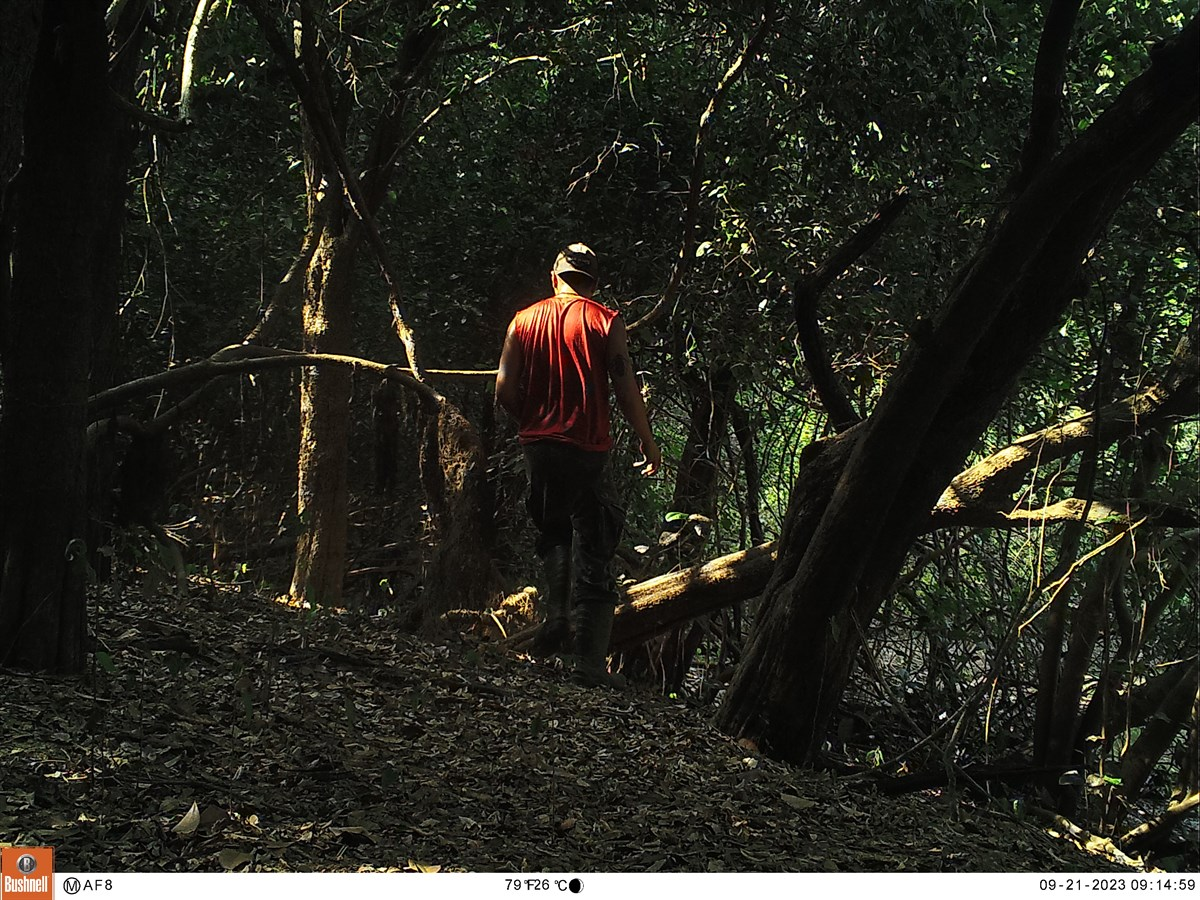
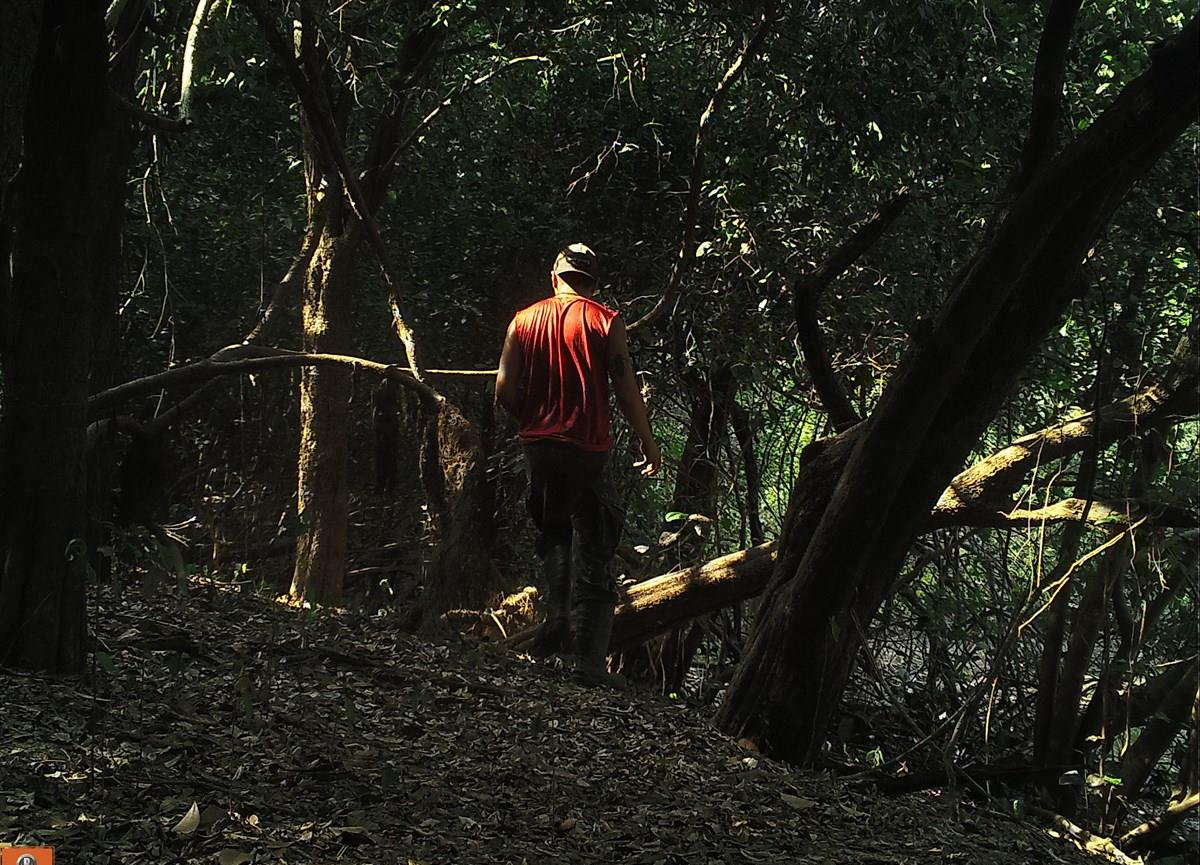
feat(gallery): remove all timestamped photos and camera trap stamp bars, leaving 19 clean field photos (v13.1)

diff --git a/index.html b/index.html
@@ -23,7 +23,7 @@
     <link rel="stylesheet" href="https://cdnjs.cloudflare.com/ajax/libs/font-awesome/6.4.0/css/all.min.css">
         <!-- Leaflet Map CSS -->
     <link rel="stylesheet" href="https://unpkg.com/leaflet@1.9.4/dist/leaflet.css" crossorigin=""/>
-    <link rel="stylesheet" href="style.css?v=13.0">
+    <link rel="stylesheet" href="style.css?v=13.1">
     <noscript>
         <style>
             .fade-in { opacity: 1 !important; transform: none !important; }
@@ -559,7 +559,7 @@
                     <!-- Projeto 6: XPRIZE Rainforest Bioacoustics Deployment -->
                     <div class="project-card" data-category="science">
                         <div class="project-img-wrapper">
-                            <img src="assets/project-xprize.jpg" alt="XPRIZE Bioacoustics Preview">
+                            <img src="assets/project-xprize.jpg?v=13.1" alt="XPRIZE Bioacoustics Preview">
                             <div class="project-overlay">
                                 <span class="btn-badge"><i class="fa-solid fa-award"></i> Brazilian Team XPRIZE</span>
                             </div>
@@ -1148,7 +1148,7 @@
                     <!-- Category Filter Controls -->
                     <div class="field-filter-bar">
                         <button class="field-filter-btn active" data-filter="all">
-                            <i class="fa-solid fa-layer-group"></i> <span data-i18n="fw_filter_all">Todos os Registros</span> <span class="filter-count">(22)</span>
+                            <i class="fa-solid fa-layer-group"></i> <span data-i18n="fw_filter_all">Todos os Registros</span> <span class="filter-count">(19)</span>
                         </button>
                         <button class="field-filter-btn" data-filter="herpeto">
                             <i class="fa-solid fa-staff-snake"></i> <span data-i18n="fw_filter_herpeto">Herpetofauna &amp; Manejo</span> <span class="filter-count">(8)</span>
@@ -1156,11 +1156,8 @@
                         <button class="field-filter-btn" data-filter="ornito-masto">
                             <i class="fa-solid fa-crow"></i> <span data-i18n="fw_filter_ornito">Ornitologia &amp; Masto</span> <span class="filter-count">(6)</span>
                         </button>
-                        <button class="field-filter-btn" data-filter="supervisao">
-                            <i class="fa-solid fa-hand-holding-hand"></i> <span data-i18n="fw_filter_supervisao">Manejo &amp; M&eacute;todos</span> <span class="filter-count">(4)</span>
-                        </button>
                         <button class="field-filter-btn" data-filter="expedicoes">
-                            <i class="fa-solid fa-compass"></i> <span data-i18n="fw_filter_expedicoes">Expedições &amp; Biomas</span> <span class="filter-count">(4)</span>
+                            <i class="fa-solid fa-compass"></i> <span data-i18n="fw_filter_expedicoes">Expedições &amp; Biomas</span> <span class="filter-count">(5)</span>
                         </button>
                     </div>
                 </div>
@@ -1388,54 +1385,6 @@
                             </div>
                             <h4 class="field-card-title">Manejo de Marsupial Didelfídeo</h4>
                             <p class="field-card-desc">Triagem taxonômica e biometria de pequeno mamífero capturado em amostragem padronizada.</p>
-                        </figcaption>
-                    </figure>
-
-                    <!-- 15. Pitfall Solar Janaúba -->
-                    <figure class="field-photo-card" data-category="supervisao" data-full="assets/field/field-pitfall-solar-janauba.jpg?v=13.0" data-caption="&lt;strong&gt;Instalação de Pitfall Traps (Armadilhas de Queda)&lt;/strong&gt; &mdash; Montagem de linhas de baldes com cerca-guia plástica no Complexo Solar Janaúba/MG para licenciamento ambiental (Arcadis)." data-caption-en="&lt;strong&gt;Pitfall Trap Installation (Drift Fence &amp; Buckets)&lt;/strong&gt; &mdash; Setting up pitfall trap lines with drift fences at the Janaúba Solar Complex in MG for environmental licensing (Arcadis).">
-                        <div class="field-photo-img-wrap">
-                            <img src="assets/field/field-pitfall-solar-janauba.jpg?v=13.0" alt="Lucas Aosf instalando pitfall traps em Janaúba MG">
-                            <div class="field-photo-zoom-icon"><i class="fa-solid fa-magnifying-glass-plus"></i></div>
-                        </div>
-                        <figcaption>
-                            <div class="field-card-badges">
-                                <span class="photo-badge badge-caatinga">Janaúba/MG · Caatinga</span>
-                                <span class="photo-badge badge-obra">Parque Solar &bull; Pitfall</span>
-                            </div>
-                            <h4 class="field-card-title">Armadilhas Pitfall no Parque Solar</h4>
-                            <p class="field-card-desc">Implantação de metodologia de interceptação e queda para diagnóstico faunístico em usina fotovoltaica.</p>
-                        </figcaption>
-                    </figure>
-
-                    <!-- 16. Supervisão Supressão -->
-                    <figure class="field-photo-card" data-category="supervisao" data-full="assets/field/field-supervisao-supressao.jpg?v=13.0" data-caption="&lt;strong&gt;Salvamento e Manejo de Fauna em Campo&lt;/strong&gt; &mdash; Prospec&ccedil;&atilde;o e salvamento de fauna silvestre com gancho herpetol&oacute;gico e coldre t&aacute;tico para conten&ccedil;&atilde;o e resgate." data-caption-en="&lt;strong&gt;Wildlife Rescue &amp; Field Handling&lt;/strong&gt; &mdash; Wildlife prospecting and rescue using herpetological hook and tactical field gear.">
-                        <div class="field-photo-img-wrap">
-                            <img src="assets/field/field-supervisao-supressao.jpg?v=13.0" alt="Lucas Aosf em salvamento e manejo de fauna em campo">
-                            <div class="field-photo-zoom-icon"><i class="fa-solid fa-magnifying-glass-plus"></i></div>
-                        </div>
-                        <figcaption>
-                            <div class="field-card-badges">
-                                <span class="photo-badge badge-manejo">Resgate de Fauna</span>
-                                <span class="photo-badge badge-anilhamento">ART &bull; CRBio</span>
-                            </div>
-                            <h4 class="field-card-title">Salvamento e Manejo de Fauna</h4>
-                            <p class="field-card-desc">Prospec&ccedil;&atilde;o presencial e salvamento de fauna com gancho herpetol&oacute;gico e coldre t&aacute;tico.</p>
-                        </figcaption>
-                    </figure>
-
-                    <!-- 17. Camera Trap SP -->
-                    <figure class="field-photo-card" data-category="supervisao" data-full="assets/field/field-camera-trap-sp.jpg?v=13.0" data-caption="&lt;strong&gt;Instalação de Camera Trap (Armadilha Fotográfica)&lt;/strong&gt; &mdash; Fixação e calibração de armadilha fotográfica com sensor infravermelho em tronco arbóreo para monitoramento de mamíferos em SP." data-caption-en="&lt;strong&gt;Camera Trap Installation&lt;/strong&gt; &mdash; Mounting and calibrating motion/infrared sensor camera traps on tree trunks for medium/large mammal monitoring in SP.">
-                        <div class="field-photo-img-wrap">
-                            <img src="assets/field/field-camera-trap-sp.jpg?v=13.0" alt="Lucas Aosf instalando camera trap em árvore">
-                            <div class="field-photo-zoom-icon"><i class="fa-solid fa-magnifying-glass-plus"></i></div>
-                        </div>
-                        <figcaption>
-                            <div class="field-card-badges">
-                                <span class="photo-badge badge-atlantica">Mata Atlântica/SP</span>
-                                <span class="photo-badge badge-obra">Camera Trap &bull; Masto</span>
-                            </div>
-                            <h4 class="field-card-title">Armadilhamento Fotográfico</h4>
-                            <p class="field-card-desc">Calibração de sensores passivos infravermelhos para detecção não-invasiva de mamíferos florestais.</p>
                         </figcaption>
                     </figure>
 
@@ -1720,7 +1669,7 @@
         <!-- Leaflet Map JS -->
     <script src="https://unpkg.com/leaflet@1.9.4/dist/leaflet.js" crossorigin=""></script>
     <script src="brazil-states.js?v=12.1"></script>
-    <script src="script.js?v=13.0"></script>
+    <script src="script.js?v=13.1"></script>
 </body>
 
 </html>
